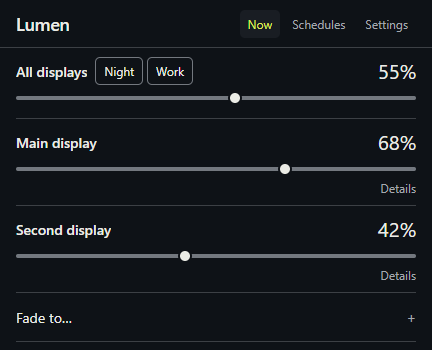
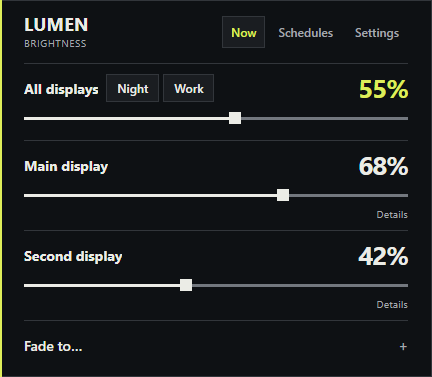
Adopt ScapeSwitch-inspired popup styling

diff --git a/src/renderer/compact.css b/src/renderer/compact.css
@@ -26,3 +26,59 @@ main{height:auto;max-height:calc(100vh - 48px);overflow-y:auto;scrollbar-width:t
 .toggle-line,.setting-line{display:flex;justify-content:space-between;align-items:center;gap:var(--space-sm);padding:var(--space-xs) 0}.setting-line span{white-space:nowrap}.hint{font-size:var(--text-sm);color:var(--color-muted);line-height:1.5;margin:var(--space-sm) 0}#active-ramp{display:flex;align-items:center;justify-content:space-between;gap:var(--space-sm);padding:var(--space-sm) 0;color:var(--color-muted);font-size:var(--text-sm)}#empty-state{padding:var(--space-lg) 0;color:var(--color-muted)}.notice{font-size:var(--text-sm);padding:var(--space-sm) 0;color:var(--color-error);overflow-wrap:anywhere}.migration{padding:var(--space-sm) 0}.migration button{margin-top:var(--space-xs)}
 @media(max-width:375px){.app-header{padding:0 var(--space-md);gap:var(--space-xs)}.app-header .tab{padding:4px 6px}#content{padding-inline:var(--space-md)}.monitor-heading strong{font-size:13px}.chips button{padding-inline:6px}}
 @media(prefers-reduced-motion:reduce){*{animation:none!important;transition:none!important}}
+
+/* ScapeSwitch reference · compact workbench · studied-DNA: user screenshot
+ * Square controls, charcoal surfaces, lime edge and active states.
+ * Segoe UI retained; no decorative motion. Critique: P5 H5 E4 S5 R5 V4. */
+body::before{content:'';position:fixed;inset:0 auto 0 0;width:2px;background:var(--color-accent);pointer-events:none;z-index:1}
+body::after{content:'';position:fixed;inset:0;pointer-events:none;border:var(--rule-width) solid var(--color-rule)}
+.app-header{height:var(--header-height);margin:0 var(--space-xl);padding:0;gap:var(--space-md)}
+.app-identity{min-width:0}
+.app-identity h1{text-transform:uppercase;font-weight:750;letter-spacing:.02em;overflow-wrap:anywhere}
+.app-identity p{margin-top:var(--space-xs);font-size:var(--text-label);line-height:1.2;color:var(--color-muted);text-transform:uppercase;letter-spacing:.06em}
+.app-header nav{gap:var(--space-xs)}
+.app-header .tab{min-height:32px;padding:4px 8px;border:var(--rule-width) solid transparent;font-weight:600}
+.app-header .tab:hover{color:var(--color-ink);background:var(--color-raised);border-color:var(--color-rule)}
+.app-header .tab.active{background:var(--color-raised);border-color:var(--color-rule);color:var(--color-accent)}
+main{max-height:calc(100vh - var(--header-height))}
+#content{padding:0 var(--space-xl) var(--space-sm)}
+button{background:var(--color-raised);font-weight:600;border-color:var(--color-rule)}
+button:hover{border-color:var(--color-muted)}
+button:disabled:hover{border-color:var(--color-rule)}
+.monitor-row{padding:var(--space-sm) 0}
+.monitor-heading{min-height:32px}
+.monitor-heading strong{font-weight:650}
+.monitor-heading output{font-weight:650;line-height:1.2;letter-spacing:-.035em}
+.monitor-row[data-id=all] output{color:var(--color-accent)}
+.monitor-heading .chips{gap:var(--space-xs)}
+.chips button{min-height:28px;padding:4px 10px}
+.chips .selected,.chips [aria-pressed=true]{background:var(--color-accent);color:var(--color-on-accent);border-color:var(--color-accent)}
+.live-slider{height:28px}
+.live-slider::-webkit-slider-runnable-track{height:3px;border-radius:0;background:linear-gradient(to right,var(--color-ink) 0 var(--fill,0%),var(--color-control) var(--fill,0%) 100%)}
+.live-slider::-webkit-slider-thumb{width:12px;height:12px;margin-top:-4.5px;border:0;border-radius:0;background:var(--color-ink)}
+.live-slider:active::-webkit-slider-runnable-track{background:linear-gradient(to right,var(--color-accent) 0 var(--fill,0%),var(--color-control) var(--fill,0%) 100%)}
+.live-slider:hover::-webkit-slider-thumb,.live-slider:focus-visible::-webkit-slider-thumb{background:var(--color-accent)}
+.live-slider:disabled{cursor:default}
+.display-details>summary{font-size:var(--text-label);letter-spacing:.025em;padding:0 var(--space-xs);margin-right:calc(-1 * var(--space-xs))}
+.display-details>summary:hover,.more>summary:hover{color:var(--color-ink)}
+.disclosure>summary{font-weight:600}
+.disclosure>summary:hover{color:var(--color-accent)}
+.disclosure:last-child{border-bottom:0}
+.primary{background:var(--color-accent);border-color:var(--color-accent);color:var(--color-on-accent);min-height:40px;font-weight:700}
+.primary:hover{border-color:var(--color-accent)}
+.section-heading h2{font-size:var(--text-lg);font-weight:650}
+.section-heading button{border:var(--rule-width) solid var(--color-rule)}
+.schedule-row>button{background:transparent}
+.schedule-row>button:hover{color:var(--color-ink)}
+input[type=checkbox][role=switch]{appearance:none;position:relative;width:28px;height:16px;padding:0;flex-shrink:0;border:var(--rule-width) solid var(--color-control);border-radius:0;cursor:pointer;background:var(--color-raised)}
+input[type=checkbox][role=switch]::before{content:'';position:absolute;left:3px;top:3px;width:8px;height:8px;background:var(--color-muted)}
+input[type=checkbox][role=switch]:checked{border-color:var(--color-accent);background:var(--color-accent)}
+input[type=checkbox][role=switch]:checked::before{transform:translateX(12px);background:var(--color-on-accent)}
+input[type=checkbox][role=switch]:disabled{cursor:default}
+@media(max-width:375px){
+  .app-header{margin-inline:var(--space-lg);padding:0;gap:var(--space-xs)}
+  .app-header .tab{padding-inline:6px}
+  #content{padding-inline:var(--space-lg)}
+  .chips button{padding-inline:6px}
+  .monitor-heading{gap:var(--space-xs)}
+}

diff --git a/src/renderer/app.js b/src/renderer/app.js
@@ -31,7 +31,7 @@ function bindSlider(input, output, id) {
   }
   input.addEventListener('pointerdown', () => { held = true; editing(); });
   for (const event of ['pointerup', 'pointercancel', 'blur']) input.addEventListener(event, () => { held = false; editing(); });
-  input.addEventListener('input', () => { output.textContent = input.value + '%'; pending = Number(input.value); editing(); clearTimeout(timer); timer = setTimeout(flush, Math.max(0, 125 - (Date.now() - last))); });
+  input.addEventListener('input', () => { output.textContent = input.value + '%'; input.style.setProperty('--fill', input.value + '%'); pending = Number(input.value); editing(); clearTimeout(timer); timer = setTimeout(flush, Math.max(0, 125 - (Date.now() - last))); });
 }
 function presets() {
   const chips = element('div', 'chips');
@@ -79,7 +79,7 @@ function renderMonitors() {
     const input = row.querySelector('.live-slider'); if (input.dataset.editing === 'true') continue;
     const monitor = state.monitors.find(m => m.id === row.dataset.id);
     const value = monitor ? monitor.brightness : Math.round(available.reduce((sum, m) => sum + m.brightness, 0) / Math.max(1, available.length));
-    input.value = value ?? 0; row.querySelector('output').textContent = monitor?.available === false ? '—' : value + '%';
+    input.value = value ?? 0; input.style.setProperty('--fill', input.value + '%'); row.querySelector('output').textContent = monitor?.available === false ? '—' : value + '%';
   }
   $('#empty-state').classList.toggle('hidden', state.monitors.length > 0); $('#start').disabled = !available.length;
   for (const button of $$('[data-preset]')) { button.disabled = !available.length; button.title = `${button.textContent}: ${state.settings[button.dataset.preset]}%`; }
@@ -173,5 +173,10 @@ function saveIdle() { const enabled = $('#idle-enabled').checked; $('#idle-optio
 $('#idle-enabled').addEventListener('change', saveIdle); $('#idle-minutes').addEventListener('change', saveIdle);
 document.addEventListener('keydown', event => { if (event.key === 'Escape') window.lumen.hide(); });
 let resizeTimer;
-new ResizeObserver(() => { clearTimeout(resizeTimer); resizeTimer = setTimeout(() => window.lumen.resize?.(Math.ceil($('#content').getBoundingClientRect().height + 48)), 20); }).observe($('#content'));
+const popupObserver = new ResizeObserver(() => {
+  clearTimeout(resizeTimer);
+  resizeTimer = setTimeout(() => window.lumen.resize?.(Math.ceil($('#content').getBoundingClientRect().height + $('.app-header').getBoundingClientRect().height)), 20);
+});
+popupObserver.observe($('#content'));
+popupObserver.observe($('.app-header'));
 window.lumen.onState(render); window.lumen.getState().then(render).catch(err => error(err.message));

diff --git a/scripts/ui-smoke.js b/scripts/ui-smoke.js
@@ -45,8 +45,17 @@ app.whenReady().then(async () => {
   assert.deepEqual(errors, []);
   for (const width of [320,375,414,768]) {
     window.setSize(width,720); await new Promise(resolve=>setTimeout(resolve,80));
-    assert.ok(await run('document.documentElement.scrollWidth <= innerWidth'), `No horizontal overflow at ${width}`);
+    for (const tab of ['now', 'schedule', 'settings']) {
+      await run(`document.querySelector('[data-tab=${tab}]').click(); document.querySelectorAll('#${tab}-panel details').forEach(el => el.open = true)`);
+      await new Promise(resolve=>setTimeout(resolve,80));
+      assert.ok(await run('document.documentElement.scrollWidth <= innerWidth && document.querySelector("main").scrollWidth <= innerWidth'), `No horizontal overflow in ${tab} at ${width}`);
+      assert.ok(await run("[...document.querySelectorAll('button,input,select')].filter(el=>el.getClientRects().length).every(el=>el.getBoundingClientRect().right <= innerWidth && el.getBoundingClientRect().left >= 0)"), `Controls fit in ${tab} at ${width}`);
+    }
   }
+  window.setSize(432,720);
+  await run("document.querySelector('[data-tab=now]').click(); document.querySelectorAll('.display-details').forEach(el=>el.open=false)");
+  await new Promise(resolve=>setTimeout(resolve,100));
+  fs.writeFileSync('.tmp/fade.png',(await window.webContents.capturePage()).toPNG());
   console.log('UI smoke passed: sliders visible, collapsed fade, presets, autosave, solar/preset schedules, responsive widths; screenshot saved.');
   app.quit();
 }).catch(error => { console.error(error); app.exit(1); });

diff --git a/tokens.css b/tokens.css
@@ -1,11 +1,11 @@
 :root {
-  --color-paper: oklch(18% .012 255); --color-raised: oklch(23% .012 255);
+  --color-paper: oklch(17.5% .007 255); --color-raised: oklch(23% .009 255);
   --color-ink: oklch(94% .008 110); --color-muted: oklch(73% .01 255);
-  --color-rule: oklch(37% .01 255); --color-control: oklch(57% .012 255);
+  --color-rule: oklch(33% .01 255); --color-control: oklch(57% .012 255);
   --color-accent: oklch(91% .17 115); --color-focus: var(--color-accent);
   --color-on-accent: oklch(19% .02 115); --color-error: oklch(83% .1 45);
   --font-body: 'Segoe UI Variable', 'Segoe UI', sans-serif; --font-display: var(--font-body);
   --space-xs: 4px; --space-sm: 8px; --space-md: 12px; --space-lg: 16px; --space-xl: 24px;
-  --text-sm: 12px; --text-base: 14px; --text-lg: 18px; --text-number: 20px;
-  --radius-control: 5px; --rule-width: 1px;
+  --text-label: 10px; --text-sm: 12px; --text-base: 14px; --text-lg: 18px; --text-number: 26px;
+  --radius-control: 0; --rule-width: 1px; --header-height: 64px;
 }

diff --git a/src/renderer/index.html b/src/renderer/index.html
@@ -9,7 +9,7 @@
   <link rel="stylesheet" href="compact.css">
 </head>
 <body>
-  <header class="app-header"><h1>Lumen</h1><nav aria-label="Sections"><button class="tab active" data-tab="now" aria-current="page">Now</button><button class="tab" data-tab="schedule">Schedules</button><button class="tab" data-tab="settings">Settings</button></nav></header>
+  <header class="app-header"><div class="app-identity"><h1>Lumen</h1><p>Brightness</p></div><nav aria-label="Sections"><button class="tab active" data-tab="now" aria-current="page">Now</button><button class="tab" data-tab="schedule">Schedules</button><button class="tab" data-tab="settings">Settings</button></nav></header>
   <main><div id="content">
     <section id="now-panel">
       <div id="monitor-list"></div>
